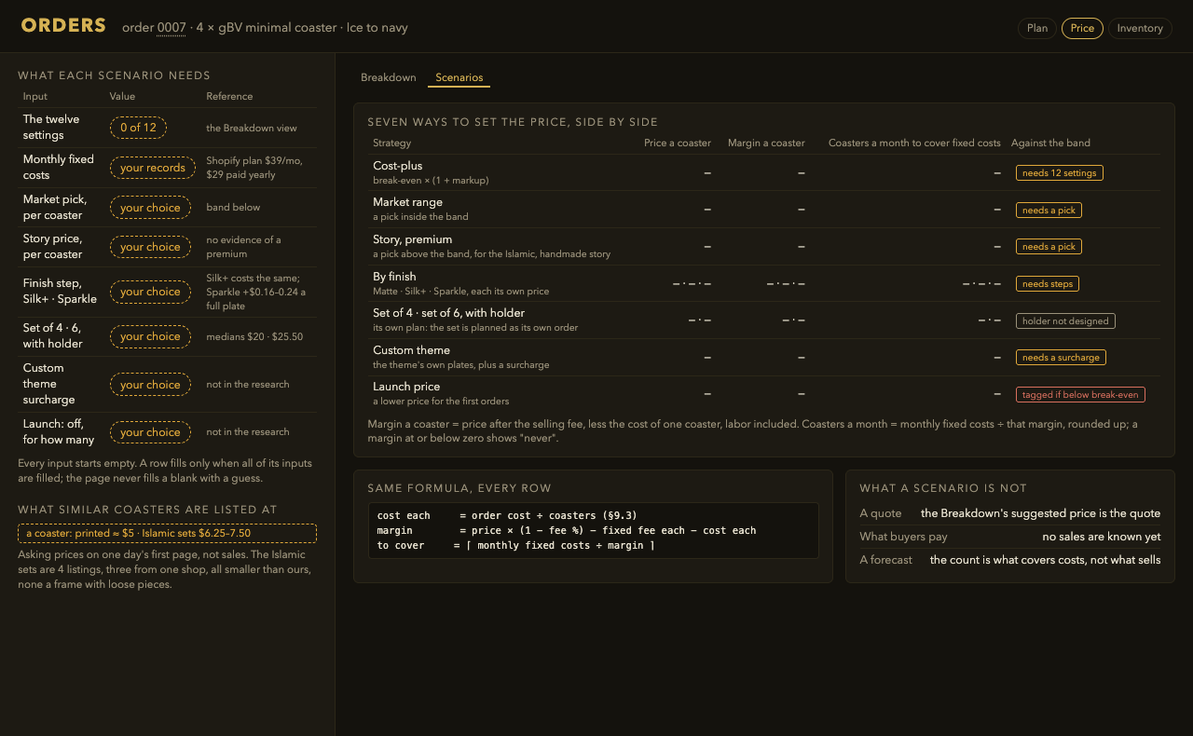
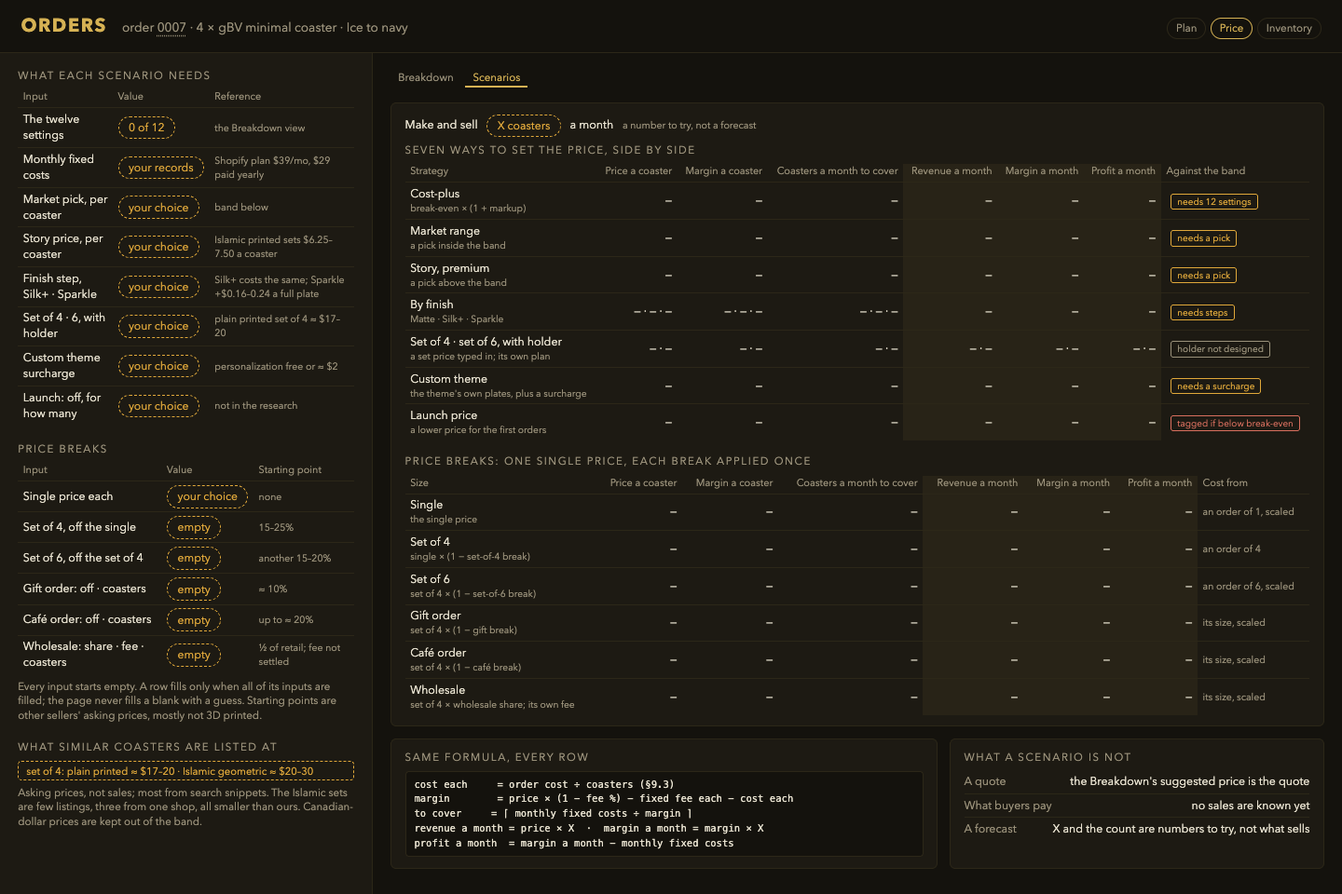
pricing: §9.7 cites the consolidated market research, adds a make-and-sell-X-a-month what-if and price breaks (#636)
§9.7's "What the research gives it" column now cites
docs/research/coaster-market-pricing.md for market numbers (the cost
research stays the source for cost and filament), with its hedges: asking
prices only, mostly snippets, Canadian-dollar prices kept out of the bands.

New: a coasters-a-month input X (empty by default) giving revenue, margin
and profit a month beside "to cover", and six price-break rows (single,
set of 4, set of 6, gift, café, wholesale) whose settings start empty with
the research's numbers shown as starting points. A worked example on
fixture 1's made-up settings, and the validator gains PASS and FAIL lines
for profit not multiplied by X, a break applied twice, rounding before
multiplying, and an empty X shown as $0. The mockup is redrawn to match.

Claude-Session: https://claude.ai/code/session_01BsHUAhF5DsA3qgXDY11oZz

diff --git a/docs/design/coaster/order-driven-lab-media/price-scenarios-mockup.html b/docs/design/coaster/order-driven-lab-media/price-scenarios-mockup.html
@@ -4,14 +4,16 @@
   Lab's look (mockup.css). Nothing here runs; it exists to be screenshotted into
   price-scenarios-mockup.png.
 
-  Real: the seven strategies and how each sets its price (§9.7); the formula's names (§9.3); the
-  references, all from the consolidated pricing research (docs/research/2026-10-04-coaster-pricing.md),
-  with its hedges.
+  Real: the seven strategies and how each sets its price (§9.7); the what-if's three columns and
+  the six price-break rows (D-113); the formula's names (§9.3); the market references, from the
+  consolidated market research (docs/research/coaster-market-pricing.md), and the fixed-cost
+  reference, from the cost research (docs/research/2026-10-04-coaster-pricing.md), with their hedges.
   Stand-ins, with a dotted underline: the order number.
-  Empty, on purpose: every price, margin and break-even count, because every §9.3 setting and every
-  candidate price is still empty. Nothing on this page is a price.
+  Empty, on purpose: every price, margin, break-even count and a-month cell, because every §9.3
+  setting, every candidate price, every break and the coasters a month are still empty. Nothing on
+  this page is a price.
 
-  Re-shoot: Chrome --headless=new --hide-scrollbars --window-size=1280,790
+  Re-shoot: Chrome --headless=new --hide-scrollbars --window-size=1440,960
             --screenshot=price-scenarios-mockup.png file://.../price-scenarios-mockup.html
 -->
 <html lang="en">
@@ -20,13 +22,16 @@
     <title>Price scenarios mockup</title>
     <link rel="stylesheet" href="mockup.css" />
     <style>
-      .lab-panel { width: 360px; }
+      .lab-panel { width: 400px; }
       .sub { display: flex; gap: 0.3rem; font-size: 0.72rem; margin-bottom: 0.2rem; }
       .sub span { padding: 0.1rem 0.5rem; border-bottom: 2px solid transparent; color: var(--ink-dim); }
       .sub span.on { border-color: var(--gold); color: var(--gold); }
       .row > .card:first-child { flex: 1.5; }
       .formula { font-size: 0.66rem; }
       .grid td .how { display: block; font-size: 0.64rem; color: var(--ink-dim); }
+      .grid th.month, .grid td.month { background: rgba(214, 178, 84, 0.06); }
+      .card h2.next { margin-top: 0.9rem; }
+      .whatif { display: flex; align-items: center; gap: 0.6rem; font-size: 0.78rem; margin-bottom: 0.4rem; }
     </style>
   </head>
   <body>
@@ -44,35 +49,57 @@
             <tr><td>The twelve settings</td><td><span class="chip pending">0 of 12</span></td><td class="src">the Breakdown view</td></tr>
             <tr><td>Monthly fixed costs</td><td><span class="chip pending">your records</span></td><td class="src">Shopify plan $39/mo, $29 paid yearly</td></tr>
             <tr><td>Market pick, per coaster</td><td><span class="chip pending">your choice</span></td><td class="src">band below</td></tr>
-            <tr><td>Story price, per coaster</td><td><span class="chip pending">your choice</span></td><td class="src">no evidence of a premium</td></tr>
+            <tr><td>Story price, per coaster</td><td><span class="chip pending">your choice</span></td><td class="src">Islamic printed sets $6.25–7.50 a coaster</td></tr>
             <tr><td>Finish step, Silk+ · Sparkle</td><td><span class="chip pending">your choice</span></td><td class="src">Silk+ costs the same; Sparkle +$0.16–0.24 a full plate</td></tr>
-            <tr><td>Set of 4 · 6, with holder</td><td><span class="chip pending">your choice</span></td><td class="src">medians $20 · $25.50</td></tr>
-            <tr><td>Custom theme surcharge</td><td><span class="chip pending">your choice</span></td><td class="src">not in the research</td></tr>
+            <tr><td>Set of 4 · 6, with holder</td><td><span class="chip pending">your choice</span></td><td class="src">plain printed set of 4 ≈ $17–20</td></tr>
+            <tr><td>Custom theme surcharge</td><td><span class="chip pending">your choice</span></td><td class="src">personalization free or ≈ $2</td></tr>
             <tr><td>Launch: off, for how many</td><td><span class="chip pending">your choice</span></td><td class="src">not in the research</td></tr>
           </table>
-          <p class="note">Every input starts empty. A row fills only when all of its inputs are filled; the page never fills a blank with a guess.</p>
+        </section>
+        <section>
+          <h2>Price breaks</h2>
+          <table class="grid">
+            <tr><th>Input</th><th>Value</th><th>Starting point</th></tr>
+            <tr><td>Single price each</td><td><span class="chip pending">your choice</span></td><td class="src">none</td></tr>
+            <tr><td>Set of 4, off the single</td><td><span class="chip pending">empty</span></td><td class="src">15–25%</td></tr>
+            <tr><td>Set of 6, off the set of 4</td><td><span class="chip pending">empty</span></td><td class="src">another 15–20%</td></tr>
+            <tr><td>Gift order: off · coasters</td><td><span class="chip pending">empty</span></td><td class="src">≈ 10%</td></tr>
+            <tr><td>Café order: off · coasters</td><td><span class="chip pending">empty</span></td><td class="src">up to ≈ 20%</td></tr>
+            <tr><td>Wholesale: share · fee · coasters</td><td><span class="chip pending">empty</span></td><td class="src">½ of retail; fee not settled</td></tr>
+          </table>
+          <p class="note">Every input starts empty. A row fills only when all of its inputs are filled; the page never fills a blank with a guess. Starting points are other sellers' asking prices, mostly not 3D printed.</p>
         </section>
         <section>
           <h2>What similar coasters are listed at</h2>
-          <div class="band"><span>a coaster: printed ≈ $5 · Islamic sets $6.25–7.50</span></div>
-          <p class="note">Asking prices on one day's first page, not sales. The Islamic sets are 4 listings, three from one shop, all smaller than ours, none a frame with loose pieces.</p>
+          <div class="band"><span>set of 4: plain printed ≈ $17–20 · Islamic geometric ≈ $20–30</span></div>
+          <p class="note">Asking prices, not sales; most from search snippets. The Islamic sets are few listings, three from one shop, all smaller than ours. Canadian-dollar prices are kept out of the band.</p>
         </section>
       </aside>
       <section class="lab-stage">
         <div class="sub"><span>Breakdown</span><span class="on">Scenarios</span></div>
         <section class="card">
+          <div class="whatif"><span>Make and sell</span><span class="chip pending">X coasters</span><span>a month</span><span class="src">a number to try, not a forecast</span></div>
           <h2>Seven ways to set the price, side by side</h2>
           <table class="grid">
-            <tr><th>Strategy</th><th class="num">Price a coaster</th><th class="num">Margin a coaster</th><th class="num">Coasters a month to cover fixed costs</th><th>Against the band</th></tr>
-            <tr><td>Cost-plus<span class="how">break-even × (1 + markup)</span></td><td class="num">—</td><td class="num">—</td><td class="num">—</td><td><span class="tag warn">needs 12 settings</span></td></tr>
-            <tr><td>Market range<span class="how">a pick inside the band</span></td><td class="num">—</td><td class="num">—</td><td class="num">—</td><td><span class="tag warn">needs a pick</span></td></tr>
-            <tr><td>Story, premium<span class="how">a pick above the band, for the Islamic, handmade story</span></td><td class="num">—</td><td class="num">—</td><td class="num">—</td><td><span class="tag warn">needs a pick</span></td></tr>
-            <tr><td>By finish<span class="how">Matte · Silk+ · Sparkle, each its own price</span></td><td class="num">— · — · —</td><td class="num">— · — · —</td><td class="num">— · — · —</td><td><span class="tag warn">needs steps</span></td></tr>
-            <tr><td>Set of 4 · set of 6, with holder<span class="how">its own plan: the set is planned as its own order</span></td><td class="num">— · —</td><td class="num">— · —</td><td class="num">— · —</td><td><span class="tag dim">holder not designed</span></td></tr>
-            <tr><td>Custom theme<span class="how">the theme's own plates, plus a surcharge</span></td><td class="num">—</td><td class="num">—</td><td class="num">—</td><td><span class="tag warn">needs a surcharge</span></td></tr>
-            <tr><td>Launch price<span class="how">a lower price for the first orders</span></td><td class="num">—</td><td class="num">—</td><td class="num">—</td><td><span class="tag fail">tagged if below break-even</span></td></tr>
+            <tr><th>Strategy</th><th class="num">Price a coaster</th><th class="num">Margin a coaster</th><th class="num">Coasters a month to cover</th><th class="num month">Revenue a month</th><th class="num month">Margin a month</th><th class="num month">Profit a month</th><th>Against the band</th></tr>
+            <tr><td>Cost-plus<span class="how">break-even × (1 + markup)</span></td><td class="num">—</td><td class="num">—</td><td class="num">—</td><td class="num month">—</td><td class="num month">—</td><td class="num month">—</td><td><span class="tag warn">needs 12 settings</span></td></tr>
+            <tr><td>Market range<span class="how">a pick inside the band</span></td><td class="num">—</td><td class="num">—</td><td class="num">—</td><td class="num month">—</td><td class="num month">—</td><td class="num month">—</td><td><span class="tag warn">needs a pick</span></td></tr>
+            <tr><td>Story, premium<span class="how">a pick above the band</span></td><td class="num">—</td><td class="num">—</td><td class="num">—</td><td class="num month">—</td><td class="num month">—</td><td class="num month">—</td><td><span class="tag warn">needs a pick</span></td></tr>
+            <tr><td>By finish<span class="how">Matte · Silk+ · Sparkle</span></td><td class="num">— · — · —</td><td class="num">— · — · —</td><td class="num">— · — · —</td><td class="num month">—</td><td class="num month">—</td><td class="num month">—</td><td><span class="tag warn">needs steps</span></td></tr>
+            <tr><td>Set of 4 · set of 6, with holder<span class="how">a set price typed in; its own plan</span></td><td class="num">— · —</td><td class="num">— · —</td><td class="num">— · —</td><td class="num month">— · —</td><td class="num month">— · —</td><td class="num month">— · —</td><td><span class="tag dim">holder not designed</span></td></tr>
+            <tr><td>Custom theme<span class="how">the theme's own plates, plus a surcharge</span></td><td class="num">—</td><td class="num">—</td><td class="num">—</td><td class="num month">—</td><td class="num month">—</td><td class="num month">—</td><td><span class="tag warn">needs a surcharge</span></td></tr>
+            <tr><td>Launch price<span class="how">a lower price for the first orders</span></td><td class="num">—</td><td class="num">—</td><td class="num">—</td><td class="num month">—</td><td class="num month">—</td><td class="num month">—</td><td><span class="tag fail">tagged if below break-even</span></td></tr>
           </table>
-          <p class="note">Margin a coaster = price after the selling fee, less the cost of one coaster, labor included. Coasters a month = monthly fixed costs ÷ that margin, rounded up; a margin at or below zero shows "never".</p>
+          <h2 class="next">Price breaks: one single price, each break applied once</h2>
+          <table class="grid">
+            <tr><th>Size</th><th class="num">Price a coaster</th><th class="num">Margin a coaster</th><th class="num">Coasters a month to cover</th><th class="num month">Revenue a month</th><th class="num month">Margin a month</th><th class="num month">Profit a month</th><th>Cost from</th></tr>
+            <tr><td>Single<span class="how">the single price</span></td><td class="num">—</td><td class="num">—</td><td class="num">—</td><td class="num month">—</td><td class="num month">—</td><td class="num month">—</td><td class="src">an order of 1, scaled</td></tr>
+            <tr><td>Set of 4<span class="how">single × (1 − set-of-4 break)</span></td><td class="num">—</td><td class="num">—</td><td class="num">—</td><td class="num month">—</td><td class="num month">—</td><td class="num month">—</td><td class="src">an order of 4</td></tr>
+            <tr><td>Set of 6<span class="how">set of 4 × (1 − set-of-6 break)</span></td><td class="num">—</td><td class="num">—</td><td class="num">—</td><td class="num month">—</td><td class="num month">—</td><td class="num month">—</td><td class="src">an order of 6, scaled</td></tr>
+            <tr><td>Gift order<span class="how">set of 4 × (1 − gift break)</span></td><td class="num">—</td><td class="num">—</td><td class="num">—</td><td class="num month">—</td><td class="num month">—</td><td class="num month">—</td><td class="src">its size, scaled</td></tr>
+            <tr><td>Café order<span class="how">set of 4 × (1 − café break)</span></td><td class="num">—</td><td class="num">—</td><td class="num">—</td><td class="num month">—</td><td class="num month">—</td><td class="num month">—</td><td class="src">its size, scaled</td></tr>
+            <tr><td>Wholesale<span class="how">set of 4 × wholesale share; its own fee</span></td><td class="num">—</td><td class="num">—</td><td class="num">—</td><td class="num month">—</td><td class="num month">—</td><td class="num month">—</td><td class="src">its size, scaled</td></tr>
+          </table>
         </section>
         <div class="row">
           <section class="card">
@@ -80,14 +107,16 @@
             <div class="formula">
               cost each &nbsp;&nbsp;&nbsp;&nbsp;= order cost ÷ coasters (§9.3)<br />
               margin &nbsp;&nbsp;&nbsp;&nbsp;&nbsp;&nbsp;&nbsp;= price × (1 − fee %) − fixed fee each − cost each<br />
-              to cover &nbsp;&nbsp;&nbsp;&nbsp;= ⌈ monthly fixed costs ÷ margin ⌉
+              to cover &nbsp;&nbsp;&nbsp;&nbsp;= ⌈ monthly fixed costs ÷ margin ⌉<br />
+              revenue a month = price × X &nbsp;·&nbsp; margin a month = margin × X<br />
+              profit a month &nbsp;= margin a month − monthly fixed costs
             </div>
           </section>
           <section class="card">
             <h2>What a scenario is not</h2>
             <div class="kv"><span class="k">A quote</span><span>the Breakdown's suggested price is the quote</span></div>
             <div class="kv"><span class="k">What buyers pay</span><span>no sales are known yet</span></div>
-            <div class="kv"><span class="k">A forecast</span><span>the count is what covers costs, not what sells</span></div>
+            <div class="kv"><span class="k">A forecast</span><span>X and the count are numbers to try, not what sells</span></div>
           </section>
         </div>
       </section>

diff --git a/docs/design/coaster/order-driven-lab-design.md b/docs/design/coaster/order-driven-lab-design.md
@@ -713,7 +713,7 @@ out right, and the pages are checked against the same numbers in a real browser.
 | `shelf.fixture.yaml`, `expected-shelf.json` | A starting shelf (§9.2's format), pointing at other fixtures' plans and, for fixture 5, at its own `print-logs/` whose rows close prints; then on hand, held, available and the buy list | 2 |
 | `wrong-shelf.json` | The shelf as the hard case gets it wrong; `fixture.yaml`'s `wrong_shelf_must_say` holds the words the check must give when it refuses it | 2 |
 | `settings.fixture.yaml`, `expected-price.json` | The twelve settings of §9.3 with made-up values, and the cost lines, break-even and suggested price they give, or "no price" with the empty setting named | 3 |
-| `expected-scenarios.json` | The scenarios of §9.7, worked on the same made-up settings | 3 |
+| `expected-scenarios.json` | The scenarios of §9.7, worked on the same made-up settings; once the what-if and the price breaks are built, also their rows and columns at a made-up number of coasters a month | 3 |
 
 Two files sit beside the folders, shared by all of them, because two fixtures can print the same
 plate: `slices.json`, one frozen slice[^frozen] per recipe some fixture plans (its hash, minutes,
@@ -834,35 +834,46 @@ being forgotten.
 | 0, before phase 1 | The eight fixture folders; goldens worked by hand from §4, §9.2 and §9.3; the wrong plans; the runner; `make validate-orders`, with every fixture listed as waiting |
 | 1, the planner | The plan checks pass on fixtures 1, 2, 3, 7 and 8, on real slices. Phases 0 and 1 shipped together: the runner and its fixtures came with the planner, not before it |
 | 2, the shelf | The shelf checks pass on fixtures 4, 5 and 7, and each fixture's wrong shelf is refused. Shipped with `bambu shelf show` and the `sent` row, which `print send` writes |
-| 3, the price | The price checks pass on fixtures 1, 6 and 7, and the scenario check in §9.7. Shipped with `bambu order price`; fixture 1's README holds the hand working |
+| 3, the price | The price checks pass on fixtures 1, 6 and 7, and the scenario check in §9.7. Shipped with `bambu order price`; fixture 1's README holds the hand working. Not yet: §9.7's what-if and price breaks (D-113), checked by the last PASS and FAIL lines of its validator |
 | 4, the pages | The browser run, with its screenshots, over all eight |
 
 ### 9.7 Pricing ideas: the ways to set a price, side by side
 
 In plain words: before settling on one price, lay out the ways of setting it next to each other.
-For each, see what it earns per coaster and how many coasters a month it takes to cover the
-shop's fixed costs. Call 2 picks the method a quote uses. This view is where that choice is tried
+For each, see what it earns per coaster, how many coasters a month it takes to cover the
+shop's fixed costs, and what a month looks like if the shop makes and sells a given number of
+coasters. Call 2 picks the method a quote uses. This view is where that choice is tried
 out, and later where a quote is checked against the other ways.
 
 Every market number below is from the
-[consolidated pricing research](../../research/2026-10-04-coaster-pricing.md), with its hedges.
-That research found no sales volumes, only asking prices on one day, so nothing below says what
-buyers pay. The first three rows are call 2's three methods. The other four are ways to shape a
-price, and work on top of whichever method call 2 picks.
+[consolidated market research](../../research/coaster-market-pricing.md) (2026-10-08: two
+independent researchers and a checker who re-opened the pages behind the load-bearing numbers),
+with its hedges. The cost and filament numbers are from the earlier
+[cost research](../../research/2026-10-04-coaster-pricing.md), as in §9.3. Both found asking
+prices only: nothing either one reached shows what a buyer paid, and neither found any sales
+volumes. Most market numbers rest on search-result snippets, not on pages read, because Etsy,
+eBay, Amazon and other shops refused automated reads; the research marks which. Two prices are in Canadian
+dollars (Chemist Tree, the Aga Khan Museum set), and the research keeps them out of the US-dollar
+bands rather than convert them at a rate it did not look up. The first three rows are call 2's
+three methods. The other four are ways to shape a price, and work on top of whichever method
+call 2 picks ([D-113](../../working-model/decisions-log.md#d-113--price-is-cost-plus-a-markup-checked-against-researched-market-prices-with-a-make-and-sell-x-a-month-view)
+picked cost plus a markup, checked against the market band).
 
 | Strategy | How the price is set | Pros | Cons | Implications | What the research gives it |
 |---|---|---|---|---|---|
-| Cost-plus | Break-even × (1 + markup), §9.3 | Never below cost; every number explained | Needs all twelve settings; the markup is a judgment | Call 2's pick; the other rows are compared to it | One coaster's plastic, power, wear and failures cost about $0.98–1.37, before labor, packaging and fees. Labor is likely the largest cost |
-| Market range | A pick inside what similar coasters are listed at | Easy to sell at; no settings needed to pick it | Can sell below cost: a five-color order has five plates and five warm-ups that a one-color listing does not | The band moves without us, so repeat the search before using it | Printed coasters about $5 each (median of 39 listings, one pass, not re-checked); sets of 4 median $20 (23 listings), sets of 6 $25.50 (12). First page only, asking prices, not sales |
-| Story, premium | A pick above the band, for the Islamic geometry and the handmade, loose-piece build | Earns the most per coaster, if it sells | Nothing to check it against: no sales, and the research found no evidence of a premium for the loose-piece build. It calls the build a difference in the product, not proof of a premium | An untested bet until a few real sales; the page labels it as one | Printed Islamic sets $6.25–7.50 a coaster, from 4 listings, three of them from one shop, all smaller than ours (112.5 mm), none a frame with loose pieces. Medium-low evidence |
-| By finish | One price per line: Matte or Basic, Silk+, and Sparkle or Silk Multi-Color | A menu buyers can see; a visible reason for a higher price | The filament cost barely differs, so a finish step is a price choice, not a cost passed on | A "Silk" tier means Silk+: plain PLA Silk is not on the US store. Silk+ refills come in four colors only | Silk+ costs the same as Basic and Matte ($15.99 refill, $18.99 spool). Sparkle and Silk Multi-Color cost $24.99, spool only, no bulk discount: $0.67 a full plate against $0.43–0.51 |
-| Sets and bundles | 4 or 6 coasters, with a holder, priced as one | Warm-ups, packaging and the fixed fee spread over more coasters; listings already sell this way | The holder is not designed: no construction, no slice, no cost | Each set size is planned as its own order, so its cost per coaster is its own. A holder design joins the backlog | Sets of 4 median $20 (23 listings), sets of 6 $25.50 (12); one Islamic set of 4 with a holder listed at $25 |
-| Custom theme | The custom order's own plan, priced as usual, plus a surcharge for the design time | Pays for the back-and-forth a custom order takes | Nothing to set the surcharge from. More colors already cost more through the formula (one plate and one warm-up per color), so the surcharge must not charge for them again | The surcharge covers design minutes only. A color the store does not sell (Silk Gold) cannot be priced at all | Nothing: the research did not look at custom work |
-| Launch price | A lower price for the first orders, for a set count or a set time | First sales and first reviews come sooner | Can sell below cost, and a first price sets what buyers expect | Selling below break-even is a choice to lose money on purpose. Call 5 decides whether the view allows it | Nothing: the research found no sales volumes and nothing on launch prices |
+| Cost-plus | Break-even × (1 + markup), §9.3 | Never below cost; every number explained | Needs all twelve settings; the markup is a judgment | Call 2's pick; the other rows are compared to it | Cost (the cost research): one coaster's plastic, power, wear and failures cost about $0.98–1.37, before labor, packaging and fees. Labor is likely the largest cost. The check (the market research, §1.4): a printed Islamic geometric set sits at about $20–$30 for a set of 4, about $5–$7.50 a coaster. That is the checker's reading of the bands, which both researchers reached on their own, not a number any listing states; low to medium confidence |
+| Market range | A pick inside what similar coasters are listed at | Easy to sell at; no settings needed to pick it | Can sell below cost: a five-color order has five plates and five warm-ups that a one-color listing does not | The band moves without us, so repeat the search before using it | A plain 3D-printed set of 4 lists at about $17–$20, about $4.25–$5.00 a coaster: median $16.95 over 21 US-dollar sets of 4 pooled from both researchers (19 of them snippets, 2 pages read), $20 over 23 Etsy listings read in a browser on Oct 4. Middle half about $13–$28 a set ($12.75–$28.19). Under about $13 is cheaper than most printed sets; over about $35–$39 is dearer than any printed set seen. Sets of 6: median $20 over 5 listings ($25.50 over 12 on Oct 4), low confidence. None of the listings seen charges more for a bigger coaster. Asking prices, not sales |
+| Story, premium | A pick above the band, for the Islamic geometry and the handmade, loose-piece build | Earns the most per coaster, if it sells | Nothing to check it against: no sales, and the research found no evidence of a premium for the loose-piece build. It calls the build a difference in the product, not proof of a premium | An untested bet until a few real sales; the page labels it as one | Islamic-themed printed sets list at $25 for 4, $35 for 5 and $45 for 6, about $6.25–$7.50 a coaster: few listings with a known set size, read in a browser on Oct 4, three of them from one shop, all smaller than 110 mm (ours is 112.5 mm), none a frame with loose pieces; the $35 set of 5 shows again as a snippet in both 2026-10-08 passes. Low to medium confidence. The ceiling, other materials: the Leighton House museum shop's 110 mm laser-cut MDF set of 4 at £24 (page read; a museum sells its name too, so low transfer), a marble set at $44.99 and a maple set at CAD 145 (both pages read) |
+| By finish | One price per line: Matte or Basic, Silk+, and Sparkle or Silk Multi-Color | A menu buyers can see; a visible reason for a higher price | The filament cost barely differs, so a finish step is a price choice, not a cost passed on | A "Silk" tier means Silk+: plain PLA Silk is not on the US store. Silk+ refills come in four colors only | Silk+ costs the same as Basic and Matte ($15.99 refill, $18.99 spool). Sparkle and Silk Multi-Color cost $24.99, spool only, no bulk discount: $0.67 a full plate against $0.43–0.51 (the cost research). The market research did not look at finish steps; it found color choice free wherever it was offered (3 pages read, 3 snippets) |
+| Sets and bundles | 4 or 6 coasters, with a holder, priced as one | Warm-ups, packaging and the fixed fee spread over more coasters; listings already sell this way | The holder is not designed: no construction, no slice, no cost | Each set size is planned as its own order, so its cost per coaster is its own. A holder design joins the backlog. This row tries a set price typed in; the price breaks below work one out from a single price instead | Offer a set of 4 first, a set of 6 second, a single as an option: both researchers agree, by listing counts, not sales. Per coaster, a set of 4 lists about 15–25% below a single, and a set of 6 about another 15–20% below a set of 4: four same-seller cases, all pages read, only one of them 3D printed, and the 4 → 6 case compares a painted set with a natural one. A holder comes in most printed sets, and no listing seen prices a set with and without one; a gift box is included, never charged. The steps pay for themselves only where part of the cost is per order (packing, the fixed fee, hands-on time per order); a cost that is all per coaster takes the step straight out of the markup |
+| Custom theme | The custom order's own plan, priced as usual, plus a surcharge for the design time | Pays for the back-and-forth a custom order takes | Nothing to set the surcharge from. More colors already cost more through the formula (one plate and one warm-up per color), so the surcharge must not charge for them again | The surcharge covers design minutes only. A color the store does not sell (Silk Gold) cannot be priced at all | Little: the market research found personalization free, or a small add-on of about $2 (one leather listing, page read), and color choice free; no evidence of a large premium. It did not look at custom design work |
+| Launch price | A lower price for the first orders, for a set count or a set time | First sales and first reviews come sooner | Can sell below cost, and a first price sets what buyers expect | Selling below break-even is a choice to lose money on purpose. Call 5 decides whether the view allows it | Nothing: neither research round found a sold price, a sales volume or anything on launch prices |
 
 **The view.** A Scenarios view in the Price tab, beside the Breakdown, with one row per strategy.
 Each row shows the price per coaster, the margin per coaster, and how many coasters a month it
-takes to cover the shop's fixed costs (its break-even volume[^scenario]):
+takes to cover the shop's fixed costs (its break-even volume[^scenario]). Once a number of
+coasters a month is typed in, it also shows that month's revenue, margin and profit (the what-if,
+below):
 
 ```text
 cost each   = order cost ÷ coasters in the order                     (§9.3's cost)
@@ -874,19 +885,22 @@ Labor is already inside the cost, so the margin is what is left after paying for
 "To cover" is how many coasters a month pay the fixed costs at that margin. It is not a forecast
 of what will sell.
 
-The view needs one input that §9.3 does not: **monthly fixed costs**, what the shop pays each month
-whatever it sells. The research's reference is the plan of Shopify (a service for running an
+The view needs inputs that §9.3 does not. The first is **monthly fixed costs**, what the shop
+pays each month whatever it sells; the others are the what-if's coasters a month and the price
+breaks' settings, below. The cost research's reference for fixed costs is the plan of Shopify (a service for running an
 online shop) at $39 a month, or $29 a month paid
 yearly, if the shop sells there. It starts empty, like every setting, and it is not one of §9.3's
-twelve, because a quote does not use it. The rows that are not formulas (a market pick, a story
+twelve, because a quote does not use it; nor are the what-if's and the breaks' inputs. The rows that are not formulas (a market pick, a story
 price, finish steps, set prices, a surcharge, a launch discount) each take a candidate price from
 Omar, and start empty too.
 
-![The Scenarios view in the Price tab for the 4 × gBV order. Seven strategies, one row each:
-cost-plus, market range, story or premium, by finish, sets of 4 and 6 with a holder, custom theme
-and launch price. Every price, margin and coasters-to-cover cell is a dash, because every input
-at left is empty, each with the research's reference beside it. Below: the three formulas, and
-what a scenario is not.](order-driven-lab-media/price-scenarios-mockup.png)
+![The Scenarios view in the Price tab for the 4 × gBV order. A "make and sell X coasters a month"
+input above seven strategies, one row each: cost-plus, market range, story or premium, by finish,
+sets of 4 and 6 with a holder, custom theme and launch price. Below them, six price-break rows:
+single, set of 4, set of 6, gift order, café order and wholesale. Every price, margin,
+coasters-to-cover and a-month cell is a dash, because every input at left is empty, each with the
+research's reference or starting point beside it. Below: the formulas, and what a scenario is
+not.](order-driven-lab-media/price-scenarios-mockup.png)
 
 *The [mockup](order-driven-lab-media/price-scenarios-mockup.html), drawn in the Lab's look.
 Every number is a dash on purpose.*
@@ -895,7 +909,8 @@ Every number is a dash on purpose.*
 
 - A row shows no number while any of its inputs is empty, the same rule as §9.3.
 - Every row uses the cost from §9.3, never a cost of its own.
-- A set row works out its own order of 4 or 6 coasters. Until the planner plans each size as its
+- A set row, and each price-break row, works out an order of its own size (4 or 6 coasters, or
+  the gift, café or wholesale order's coasters). Until the planner plans each size as its
   own order, that is the plan scaled as in §9.3's "By quantity": grams and minutes by the ratio,
   beds by one set per plan's worth of coasters started. The row says "scaled".
 - A row below break-even carries a tag saying so.
@@ -907,6 +922,112 @@ Every number is a dash on purpose.*
 - **Custom theme** adds the design minutes × the labor rate to the order's cost, then prices it
   as cost-plus. More colors are already in the cost, so they are not charged again.
 - **Launch price** is the cost-plus price × (1 − the launch discount).
+
+**Not built yet.** Phase 3 shipped the seven rows and their three columns. The what-if and the
+price breaks below are the next addition to it, asked for in
+[D-113](../../working-model/decisions-log.md#d-113--price-is-cost-plus-a-markup-checked-against-researched-market-prices-with-a-make-and-sell-x-a-month-view)
+(Omar: "pricing expeirence should also simulate quantity", "if we make and sell x"), and the last
+PASS and FAIL lines of the validator below are their check.
+
+**Make and sell X a month.** One more input, **coasters a month** (X): a whole number the owner
+types to try, empty to start like every other input. When it is filled, every row adds three
+columns beside "to cover":
+
+```text
+revenue a month = price each × X
+margin a month  = margin each × X
+profit a month  = margin a month − monthly fixed costs
+```
+
+- **Revenue is what buyers pay**, before the selling fee. The fee is already taken off in the
+  margin, so it is not taken off twice.
+- **Profit is after Omar's time.** Labor is inside the cost, so profit a month is what is left
+  after paying his hands-on time at his labor rate and the month's fixed costs.
+- **Each row assumes all X coasters sell at its price, in orders shaped like its own**: the
+  page's order for the seven strategies, and the order size each price-break row names. A month
+  that mixes sizes is not worked out; the rows side by side are the comparison.
+- **Profit and "to cover" must agree.** Profit a month is zero or more exactly when X is at
+  least "to cover", because "to cover" is the smallest whole X whose margin a month pays the fixed
+  costs. A row whose margin each is zero or less shows a loss at every X.
+- **Full precision, rounded only when shown**, as in §9.3: margin each is multiplied by X before
+  it is rounded.
+- **Empty X shows dashes, not $0.** A row with any other input empty shows dashes too, whatever X
+  is. Zeros would read as "sold nothing", which is a forecast nobody made.
+- **X is a number to try, not a forecast.** The research found no sales volumes, so nothing here
+  says how many coasters a month will sell.
+
+D-113 also asks the what-if for printer hours against one printer's month, Omar's hours and the
+spools to buy. Those come from the plan scaled to X coasters, as in §9.3's "By quantity", and are
+not designed here yet.
+
+**Price breaks by set size and by order size.** Six more rows under the seven, each worked from
+one single price and a break, so a set or a bulk price is tried against what an order of that size
+costs to make. Every setting starts empty. The
+[market research](../../research/coaster-market-pricing.md#3-price-breaks) gives each one a
+starting point, shown beside it for the owner to type in or replace; none is a settled value.
+
+| Setting | What it is | Starting point from the market research | How sure, and why |
+|---|---|---|---|
+| Single price each | What one coaster bought alone sells for | none: the research offers a single only as an option beside sets | Omar's to choose |
+| Set-of-4 break | The share off the single price, per coaster, in a set of 4 | 15–25% | low to medium: four same-seller cases, all pages read, one of them 3D printed (−25% at 4) |
+| Set-of-6 break | The share off the set-of-4 price, per coaster, in a set of 6 | another 15–20% | low to medium: one same-seller case, a painted set of 4 against a natural set of 6, plus medians across sellers |
+| Gift-order break, and its size in coasters | The share off the set-of-4 price for a small gift order of a few sets | about 10% | low: a glass seller and a cork seller (snippets) and one ceramic seller (page read), none of them 3D printed |
+| Café-order break, and its size in coasters | The share off the set-of-4 price for a café or event order | up to about 20% | low: as above; tiers beyond that wait until our own cost at 50 or 100 coasters is measured |
+| Wholesale share, wholesale fee percent, and its size in coasters | What a reselling shop pays, as a share of the set-of-4 price; what the wholesale channel takes | half of retail ("keystone"), before any channel commission; the commission is not settled | medium on the half (a glossary page read; Faire's own page refused, its rule seen only as a snippet); the commission rests on third-party snippets that disagree, 10% to 25% |
+
+```text
+single      = single price each                                    an order of 1
+set of 4    = single      × (1 − set-of-4 break)                   an order of 4
+set of 6    = set of 4    × (1 − set-of-6 break)                   an order of 6
+gift order  = set of 4    × (1 − gift-order break)                 an order of the gift-order size
+café order  = set of 4    × (1 − café-order break)                 an order of the café-order size
+wholesale   = set of 4    × wholesale share                        an order of the wholesale size
+```
+
+Each row then runs the same margin each, to cover and what-if formulas as the seven, with the cost
+each of an order of its own size: the plan scaled, as in §9.3's "By quantity", and marked
+"scaled". The wholesale row uses the wholesale fee percent in place of the fee percent, and
+**assumes** the same fixed fee per order, since the research found none for a wholesale channel.
+The three order-size breaks start from the set-of-4 price because a set of 4 is what the research
+found listed first.
+
+- **Each break applies once**, to the price named on its line: the set-of-6 break to the set-of-4
+  price, never again to the single. The Sets and bundles row above takes a set price Omar types,
+  which already holds whatever break he chose, so no break applies to it.
+- **The research's breaks transfer as what a buyer sees elsewhere, not as what we can afford.**
+  Only one of the set-size cases is a 3D-printed coaster, and the order-size breaks come from glass,
+  cork and printed-surface sellers, whose cost spreads a setup over the order. Ours falls with
+  order size only through per-order work and fuller plates, neither measured yet. So a break pays
+  for itself only where the row's own cost each falls by as much; the margin column is what shows
+  whether it does.
+- **Wholesale needs retail at least twice the cost**, more with a channel commission, because a
+  reselling shop expects to double what it pays. A wholesale row below break-even says so with
+  the same tag.
+
+**A worked example, all made up.** Fixture 1's FIXTURE settings (§9.6; its README holds the hand
+working of the seven rows), plus these made-up values: single price $150, set-of-4 break 0.2,
+set-of-6 break 0.15, a gift order of 8 coasters at 0.1 off, a café order of 24 at 0.2 off, a
+wholesale order of 24 at a share of 0.5 and a wholesale fee percent of 0.2, and X = 40. None is a
+price or a real cost. Cost each comes from the plan scaled to each size, as §9.3 scales it:
+$72.98 for 1 coaster (one set of five beds, so five warm-ups), $68.48 for 4, $68.32 for 6 (ten
+beds), $67.98 for 8 (ten beds) and $67.65 for 24 (thirty beds).
+
+| Row | Price each | Cost each | Margin each | To cover | Revenue a month | Margin a month | Profit a month |
+|---|---|---|---|---|---|---|---|
+| cost-plus (fixture 1) | 171.83 | 68.48 | 68.73 | 15 | 6,873.17 | 2,749.27 | 1,749.27 |
+| market range (fixture 1) | 50.00 | 68.48 | −28.73 | never, below break-even | 2,000.00 | −1,149.27 | −2,149.27 |
+| single | 150.00 | 72.98 | 120 − 1 − 72.98 = 46.02 | 22 | 6,000.00 | 1,840.73 | 840.73 |
+| set of 4 | 150 × 0.8 = 120.00 | 68.48 | 96 − 0.25 − 68.48 = 27.27 | 37 | 4,800.00 | 1,090.73 | 90.73 |
+| set of 6 | 120 × 0.85 = 102.00 | 68.32 | 81.60 − 0.1667 − 68.315 = 13.12 | 77 | 4,080.00 | 524.73 | −475.27 |
+| gift order, 8 | 120 × 0.9 = 108.00 | 67.98 | 86.40 − 0.13 − 67.98 = 18.29 | 55 | 4,320.00 | 731.73 | −268.27 |
+| café order, 24 | 120 × 0.8 = 96.00 | 67.65 | 76.80 − 0.04 − 67.65 = 9.11 | 110 | 3,840.00 | 364.40 | −635.60 |
+| wholesale, 24 | 120 × 0.5 = 60.00 | 67.65 | 48 − 0.04 − 67.65 = −19.69 | never, below break-even | 2,400.00 | −787.60 | −1,787.60 |
+
+The made-up costs are almost all per coaster (cost each falls only from $72.98 to $67.65 between 1
+and 24 coasters), so each break comes nearly straight out of the margin, as the research warns.
+At X = 40 the set of 4 just covers the fixed costs (37 ≤ 40) and the set of 6 does not (77 > 40),
+and the profit column agrees with both. The wholesale row fails the keystone test: retail at $120
+a coaster is less than twice its $67.65 cost.
 
 **Validator:** every scenario runs through the one formula and shows only what it can work out.
 
@@ -922,6 +1043,26 @@ number, and only the golden worked from a 6-coaster order catches it. Fixture 1'
 for this reason: at $2 the two costs each happen to be equal to the cent, and the check could not
 tell them apart. Also FAIL: any
 row that shows a number while one of its inputs is empty.
+
+PASS, the what-if and the price breaks (once built): on fixture 1 with X = 40 and the made-up
+break settings of the worked example above, every row of the worked table, its price, cost each,
+margin each, "to cover" and the three a-month columns, equals the golden to the cent. The other
+five strategy rows get the same three columns, worked by hand in fixture 1's README beside the
+seven rows it already holds.
+The cost-plus row shows revenue $6,873.17, margin $2,749.27 and profit $1,749.27 a month. Its
+profit is above zero at X = 15 and below it at X = 14, where "to cover" says 15. The set-of-6 row
+prices at $102.00, one break on the set-of-4 price, and takes its cost each from an order of 6.
+With X empty, every what-if cell is a dash.
+
+FAIL: profit a month worked per coaster and never multiplied by X. The cost-plus row then shows
+$68.73 − $1,000 = −$931.27 a month, a believable loss on a row that makes $1,749.27 a month, and
+it does not change as X does; only the golden at X = 40 catches it. Also FAIL: the set-of-4 break applied a
+second time on the way to the set of 6, $150 × 0.8 × 0.8 × 0.85 = $81.60 each, which gives a
+margin each of −$3.20 and "never". It reads as "sets of 6 lose money", a plausible finding, so
+only the golden's $102.00 catches it; the same goes for a break taken off the Sets and bundles
+row's typed price. Also FAIL: margin each rounded before it is multiplied, $68.73 × 40 =
+$2,749.20 against the golden's $2,749.27. Also FAIL: an empty X shown as $0 revenue and −$1,000
+profit, a forecast nobody made.
 
 **A skill, a page or a gate.** Two earlier evaluations each weighed a proposed skill against how
 often its job actually came back:
@@ -1230,7 +1371,8 @@ can be reused for another print.
 [^scenario]: **scenario, margin, break-even volume** — a scenario is one way of setting the price,
     worked out for the order on the page. The margin is what one coaster leaves after the selling
     fee and its cost, labor included. The break-even volume is how many coasters a month that
-    margin needs to cover the shop's fixed costs.
+    margin needs to cover the shop's fixed costs. The what-if takes a number of coasters a month
+    the owner types and shows that month's revenue, margin and profit at the scenario's price.
 [^hash]: **hash** — a short fingerprint computed from a file's contents; any change to the file
     changes it.
 [^reviewtheme]: **review-theme** — this repo's skill in which six simulated coffee drinkers score
